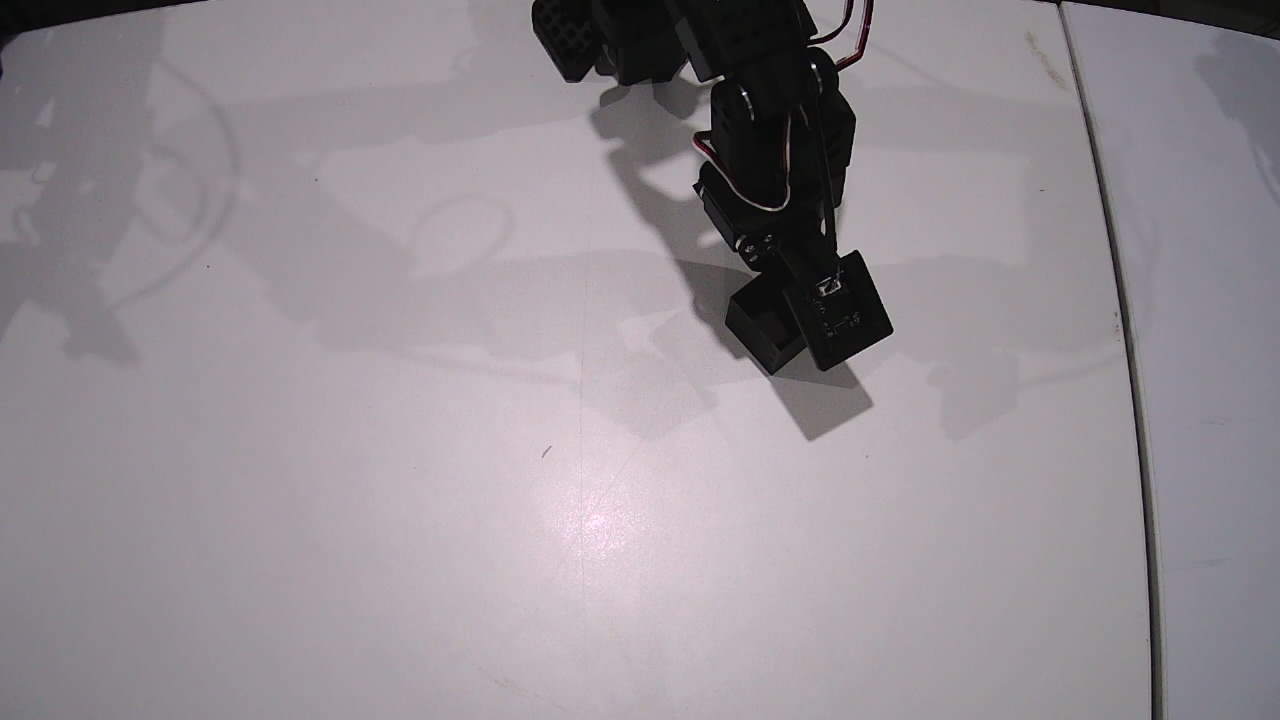
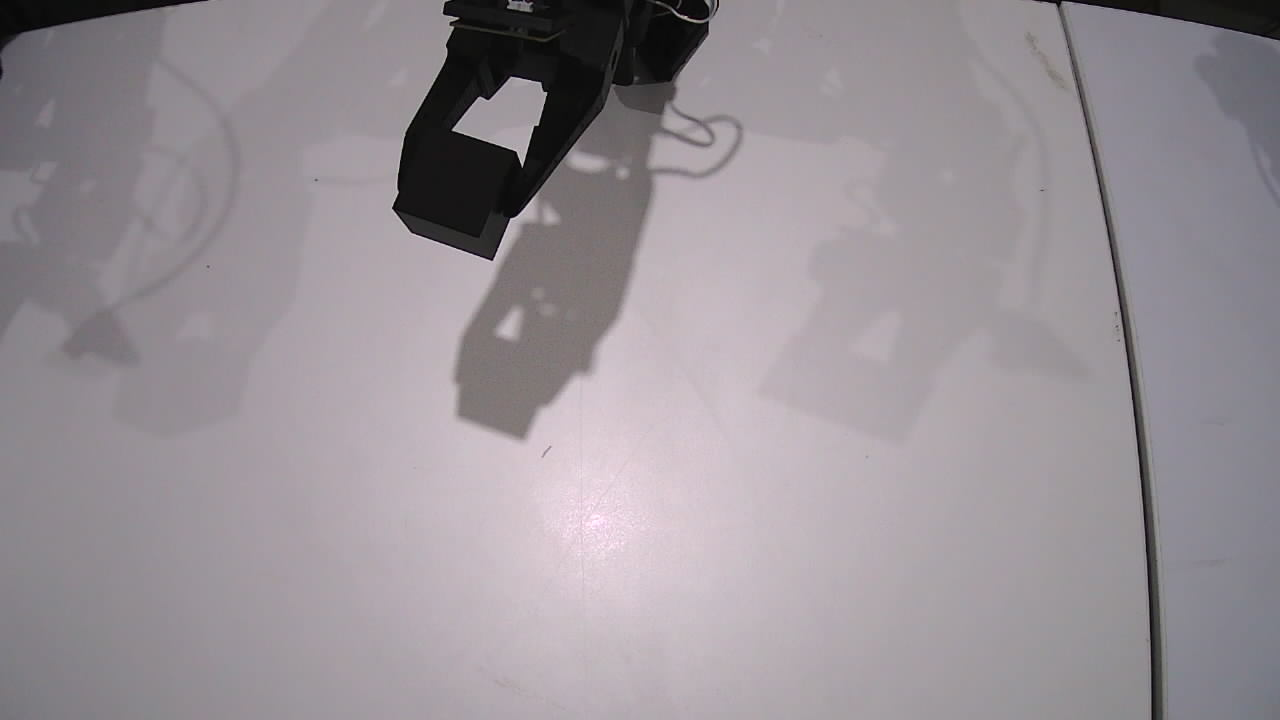
Update tools for arm-006__gpt-6-astra__grasp-cube
{"agent_id": "arm-006__gpt-6-astra__grasp-cube", "baseline_sha256": "6df93a20a05a3dc1a156aa3b51eb1788e2ddcd91056a577397b979b7e33a31ed", "baseline_version": 1, "designation": "arm-006", "experiment_id": "60ddc167-ccd2-416f-ad08-ab3b06d545fc", "fleet_database_enabled": false, "freshness_version": 2, "identity_version": 2, "model": "gpt-6-astra", "preserved_sha256": {"calibration/20261005T100921_180531211/intrinsics.json": "4ec6b1a49abda43063976d392ddf66a39353947ce3d08c35a88e17c021954163", "calibration/20261005T100921_180531211/report.json": "c36605c4f486eda36e5b659a6f6428e72a5679222d74ef6550e54b39fe44cb63", "calibration/20261005T100921_180531211/workspace_map.json": "a057358c35ff4d80235ff64e4b2f909b3d933f39c7657a719e535014511e5796", "calibration/20261005T100921_180531211/workspace_map.npz": "05e9f06fb38099b74b4dcf1a233c88bfe3cfc0e95c144da8c173346c2727279a", "calibration/20261005T100921_180531211/workspace_undistorted.png": "0cf381266158cf31f6acf0bc6fbdf818957f14528b1651d3761cc4271ca91053", "calibration/ready.json": "a2b2addfd83165981076a80147577469be26edadaff97f388cc365b77e7f4986", "cameras.json": "343a8b61bbc2d74885ee73db1cb84786681ef9bdfa17db4ff9f7a2ee160c0ef0", "config/motors/arm-006.json": "2e75c66010c99cdd47926348632396d2a4f09bd195ccb8c200f777b70068611f", "home_pose.json": "908e801e509a421a940722512db24462fd5390764e1e33a5464ccec438febb21", "tools/calibrate_workspace.py": "119afb4f6ffb1f3b424724658b6104c288c5db2a34f2b6faaba2ada84d8aaf17"}, "provider": "codex", "reset_at
[…]

Changed region(s): [[0.2812, 0.0, 0.7188, 0.6111], [0.8438, 0.2139, 0.875, 0.3667], [0.875, 0.3972, 0.9062, 0.4583]]

diff --git a/agents/arm-006__gpt-6-astra__grasp-cube/collect_cube.py b/agents/arm-006__gpt-6-astra__grasp-cube/collect_cube.py
@@ -43,7 +43,7 @@ def run(points):
    return r
   for n,(x,pan) in enumerate(points):
    started=time.time();tag=f'cube_{int(started)}';episode=None
-   release=pose(x,.025,pan);pick=pose(x,.005,pan)
+   release=pose(x,.015,pan);pick=pose(x,.005,pan)
    approach=pose(x,.060,pan)
    for t in (release,pick,approach,HOME):
     clipped=c.clamp_target(t,b.calibration)
